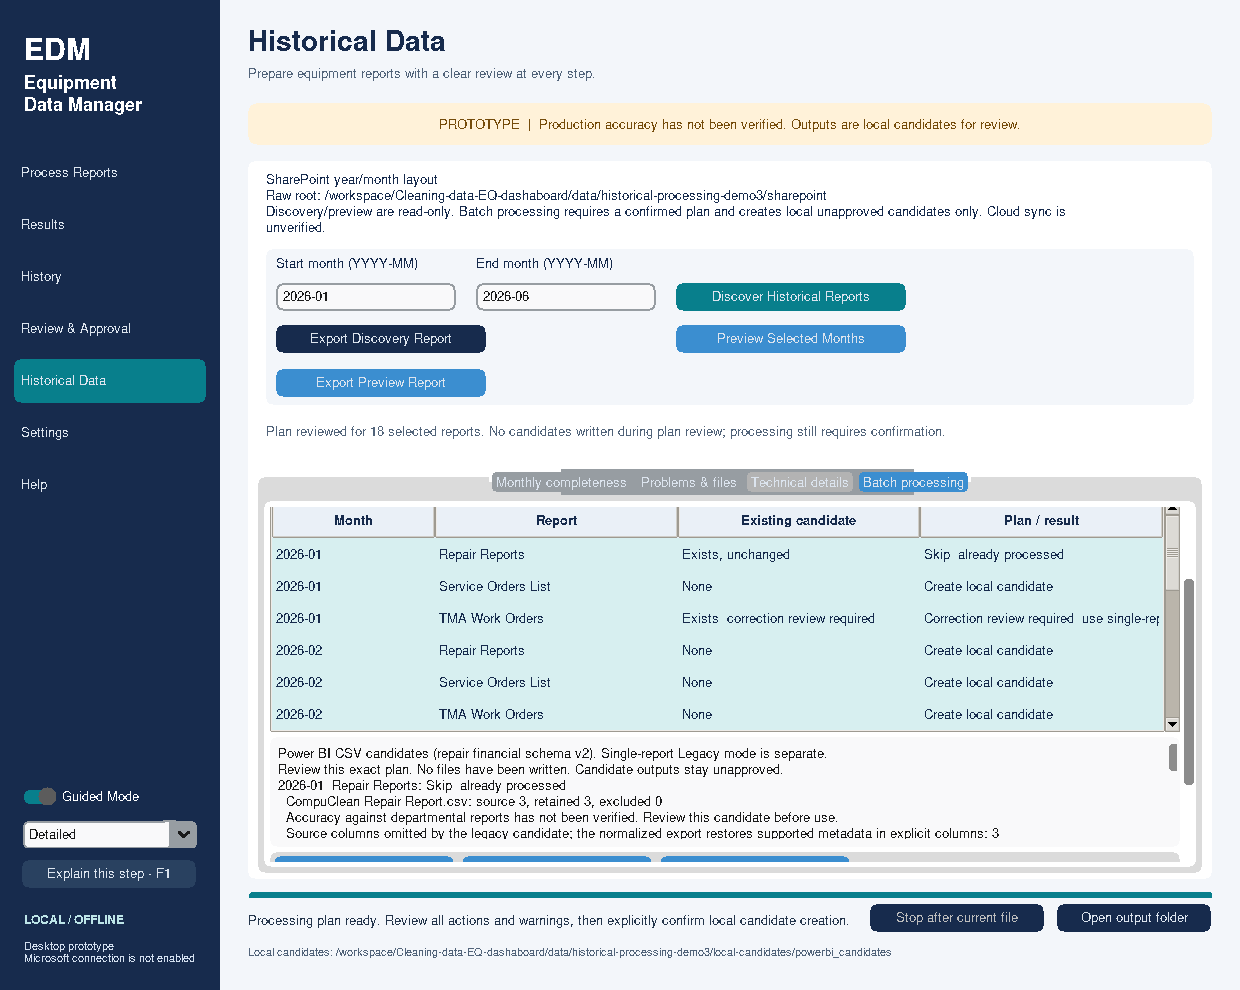
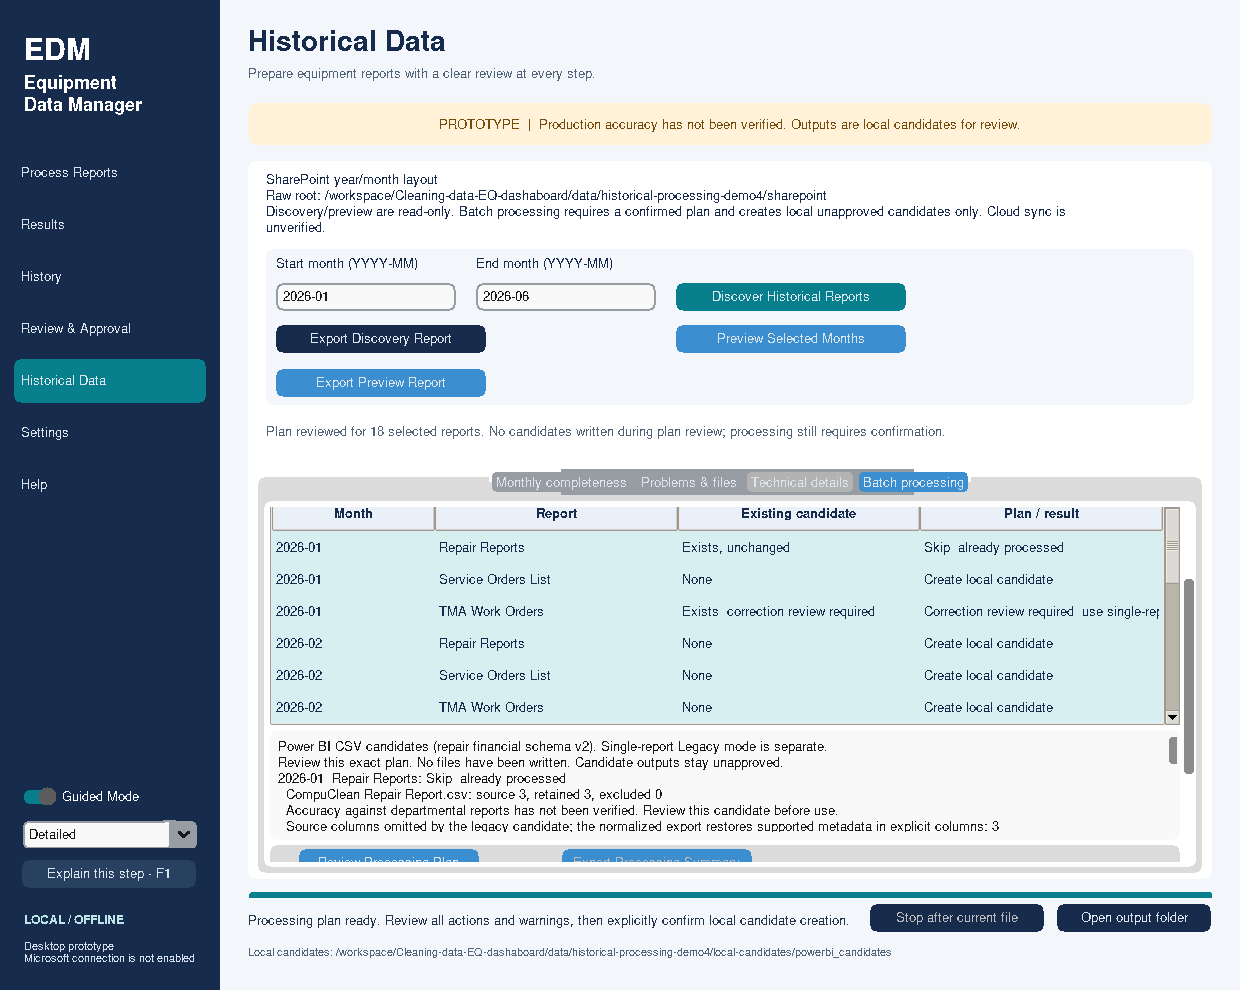
Keep batch processing action visible in compact Windows viewports

Changed region(s): [[0.2145, 0.5152, 0.95, 0.8788]]

diff --git a/src/equipment_data_manager/ui/historical_processing.py b/src/equipment_data_manager/ui/historical_processing.py
@@ -51,18 +51,19 @@ class HistoricalProcessingPage(ctk.CTkScrollableFrame):
         self.plan_button=ctk.CTkButton(buttons,text='Review Processing Plan',command=self.review_plan,width=180)
         self.plan_button.grid(row=0,column=0,padx=4,pady=4)
         self.process_button=ctk.CTkButton(buttons,text='Process Selected Reports',command=self.process,width=190)
-        self.process_button.grid(row=0,column=1,padx=4,pady=4)
+        # Keep the primary action at the scroll endpoint, including small/DPI-scaled viewports.
+        self.process_button.grid(row=4,column=0,columnspan=3,padx=4,pady=4,sticky='w')
         self.export_button=ctk.CTkButton(buttons,text='Export Processing Summary',command=self.export,width=190)
         self.export_button.grid(row=0,column=2,padx=4,pady=4)
         self.confirmed=ctk.BooleanVar(value=False)
         self.confirm=ctk.CTkCheckBox(buttons,text='I reviewed this plan. Create local unapproved candidates only.',variable=self.confirmed,command=lambda:self.busy(False))
-        self.confirm.grid(row=1,column=0,columnspan=3,padx=4,pady=4,sticky='w')
+        self.confirm.grid(row=3,column=0,columnspan=3,padx=4,pady=4,sticky='w')
         self.correction_button=ctk.CTkButton(buttons,text='Open single-report correction workflow',command=self.open_correction,width=280)
-        self.correction_button.grid(row=2,column=0,columnspan=2,padx=4,pady=4,sticky='w')
+        self.correction_button.grid(row=1,column=0,columnspan=2,padx=4,pady=4,sticky='w')
         self.open_button=ctk.CTkButton(buttons,text='Open candidate folder',command=self.open_folder,width=190)
-        self.open_button.grid(row=2,column=2,padx=4,pady=4)
+        self.open_button.grid(row=1,column=2,padx=4,pady=4)
         self.stop_button=ctk.CTkButton(buttons,text='Stop After Current Report',command=self.stop,width=210)
-        self.stop_button.grid(row=3,column=0,columnspan=2,padx=4,pady=4,sticky='w')
+        self.stop_button.grid(row=2,column=0,columnspan=2,padx=4,pady=4,sticky='w')
         self.reset()
 
     def _text(self,text):

diff --git a/tests/test_desktop_widgets.py b/tests/test_desktop_widgets.py
@@ -1302,6 +1302,10 @@ def prepare_historical_processing(app,tmp_path):
 
 
 def test_historical_processing_selection_plan_confirmation_and_results(app,tmp_path,monkeypatch):
+    # A small viewport reproduces hosted Windows/DPI constraints on every OS.
+    app.minsize(1000,650)
+    app.geometry('1100x700')
+    app.update()
     page,processing=prepare_historical_processing(app,tmp_path)
     assert processing.process_button.cget('state')=='disabled'
     processing.select_all()

diff --git a/docs/historical_batch_processing.md b/docs/historical_batch_processing.md
@@ -17,7 +17,9 @@ or blanket business approval of historical finances.
    and use the three report-type checkboxes to filter inclusion. Select all eligible
    reports selects successful previews, including unchanged candidates; it excludes
    known corrections. Clear selection resets the plan. The panel scrolls vertically
-   on smaller screens; scroll to the confirmation controls if needed.
+   on smaller screens; scroll to the end for the confirmation and processing controls.
+   The primary processing action stays at the scroll endpoint, including compact
+   Windows/DPI-scaled viewports.
 4. Click **Review Processing Plan**. This reads current history and rechecks each
    selected source. It writes no candidate files or database. Review each filename,
    month/type, existing candidate, proposed action, counts and warnings. Technical

diff --git a/docs/historical_batch_processing_pr.md b/docs/historical_batch_processing_pr.md
@@ -45,3 +45,8 @@ isolated without retries. Wheel/sdist builds passed. Source and isolated
 installed-wheel phase-45 desktop/restart checks passed. Screenshots demonstrate
 real mapped/scrolled widgets using invented reports. Hosted Windows/Linux and
 native package outcomes must be checked on the pushed head before merge.
+
+Hosted Windows follow-up: the primary processing action was above other controls
+and could scroll outside a small viewport. It now ends the panel; the unchanged
+visibility assertion reproduces the original failure at 1100×700 on Linux and
+passes after the layout fix. No processing/security rules changed.
